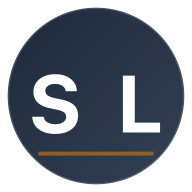
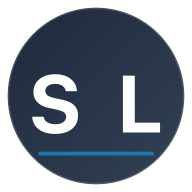
Update color scheme to clean sky blue design
- Changed primary color from warm amber (#d97706) to clean sky blue (#0ea5e9)
- Updated secondary color to teal (#14b8a6) for fresh, professional look
- Fixed strong gradient in openings page to match subtle hero styling
- Updated all inconsistent colors in media.qmd from #2563eb to #0ea5e9
- Removed blockquote highlighting in upskilling.qmd (converted to bold text)
- Replaced all hardcoded amber colors across all QMD files
- Updated favicon accent line to match new color scheme
- Regenerated all PNG favicon files with new colors

This creates a cleaner, more minimal, and professional aesthetic while
maintaining excellent readability and accessibility.

🎨 Generated with [Claude Code](https://claude.com/claude-code)

Changed region(s): [[0.1875, 0.7812, 0.8125, 0.8125]]

diff --git a/styles.scss b/styles.scss
@@ -5,14 +5,14 @@
 $font-family: "Crimson Pro", serif;
 $font-family-serif: "Crimson Pro", serif;
 
-/* CSS Custom Properties for theming - Tech Meets Terra */
+/* CSS Custom Properties for theming - Clean & Minimal */
 :root {
-  /* Primary palette - Earth meets Tech */
-  --primary-color: #d97706; /* Warm amber - sun/earth */
-  --secondary-color: #059669; /* Forest green - nature/sustainability */
-  --accent-color: #0ea5e9; /* Sky blue - innovation/tech */
-  --accent-warm: #f59e0b; /* Bright amber accent */
-  --accent-cool: #06b6d4; /* Cyan accent */
+  /* Primary palette - Clean, modern, professional */
+  --primary-color: #0ea5e9; /* Sky blue - clean and modern */
+  --secondary-color: #14b8a6; /* Teal - fresh and professional */
+  --accent-color: #8b5cf6; /* Purple - subtle accent */
+  --accent-warm: #06b6d4; /* Cyan accent */
+  --accent-cool: #0891b2; /* Darker cyan */
 
   /* Text colors */
   --text-primary: #1e293b;
@@ -32,10 +32,10 @@ $font-family-serif: "Crimson Pro", serif;
   --border-accent: #fbbf24;
 
   /* Shadows with depth */
-  --shadow-light: 0 2px 8px rgba(217, 119, 6, 0.08);
-  --shadow-medium: 0 4px 20px rgba(217, 119, 6, 0.12);
-  --shadow-heavy: 0 16px 40px rgba(217, 119, 6, 0.2);
-  --shadow-glow-warm: 0 0 30px rgba(245, 158, 11, 0.4);
+  --shadow-light: 0 2px 8px rgba(14, 165, 233, 0.08);
+  --shadow-medium: 0 4px 20px rgba(14, 165, 233, 0.12);
+  --shadow-heavy: 0 16px 40px rgba(14, 165, 233, 0.2);
+  --shadow-glow-warm: 0 0 30px rgba(6, 182, 212, 0.4);
   --shadow-glow-cool: 0 0 30px rgba(14, 165, 233, 0.4);
 
   /* Radius */
@@ -353,7 +353,7 @@ body {
     padding: 80px 20px 60px;
     margin-bottom: 60px;
     background: linear-gradient(to bottom,
-      rgba(217, 119, 6, 0.03) 0%,
+      rgba(14, 165, 233, 0.02) 0%,
       rgba(255, 255, 255, 0) 100%);
     border-radius: var(--radius-large);
     overflow: hidden;
@@ -564,20 +564,20 @@ div.hero-section h1 {
 
 .tag {
     font-family: 'Outfit', sans-serif;
-    background: rgba(217, 119, 6, 0.08);
+    background: rgba(14, 165, 233, 0.08);
     color: var(--primary-color);
     padding: 4px 12px;
     border-radius: 16px;
     font-size: 0.8rem;
     font-weight: 500;
-    border: 1px solid rgba(217, 119, 6, 0.15);
+    border: 1px solid rgba(14, 165, 233, 0.15);
     transition: all var(--transition-fast);
     letter-spacing: 0.01em;
     white-space: nowrap;
 }
 
 .tag:hover {
-    background: rgba(217, 119, 6, 0.12);
+    background: rgba(14, 165, 233, 0.12);
     border-color: var(--primary-color);
     transform: translateY(-1px);
 }
@@ -623,7 +623,7 @@ div.hero-section h1 {
 
 .join-section {
     background: linear-gradient(to bottom,
-      rgba(217, 119, 6, 0.03) 0%,
+      rgba(14, 165, 233, 0.02) 0%,
       rgba(255, 255, 255, 0) 100%);
     color: var(--text-primary);
     text-align: center;
@@ -931,7 +931,7 @@ div.hero-section h1 {
 
 .alumni-banner {
     background: linear-gradient(to bottom,
-      rgba(217, 119, 6, 0.05) 0%,
+      rgba(14, 165, 233, 0.04) 0%,
       rgba(255, 255, 255, 0) 100%);
     color: var(--text-primary);
     text-align: center;
